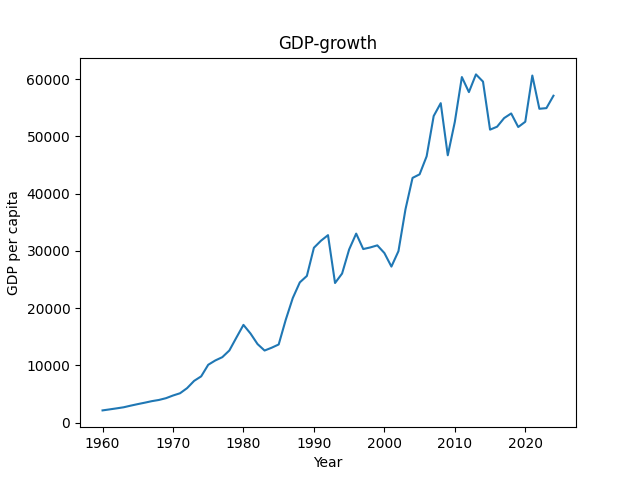
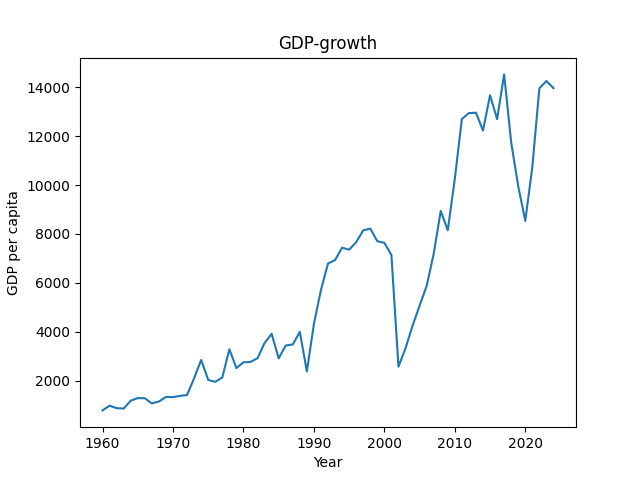
finish finale

diff --git a/bnp.py b/bnp.py
@@ -19,7 +19,7 @@ def show():
         #Tar emot imput
         country = request.form["bnp"].strip().lower()
 
-        with open("bnp.csv", encoding='utf-8-sig') as file:
+        with open("csv/bnp.csv", encoding='utf-8-sig') as file:
             reader = csv.DictReader(file)
 
             #Läser innehållet i csv
